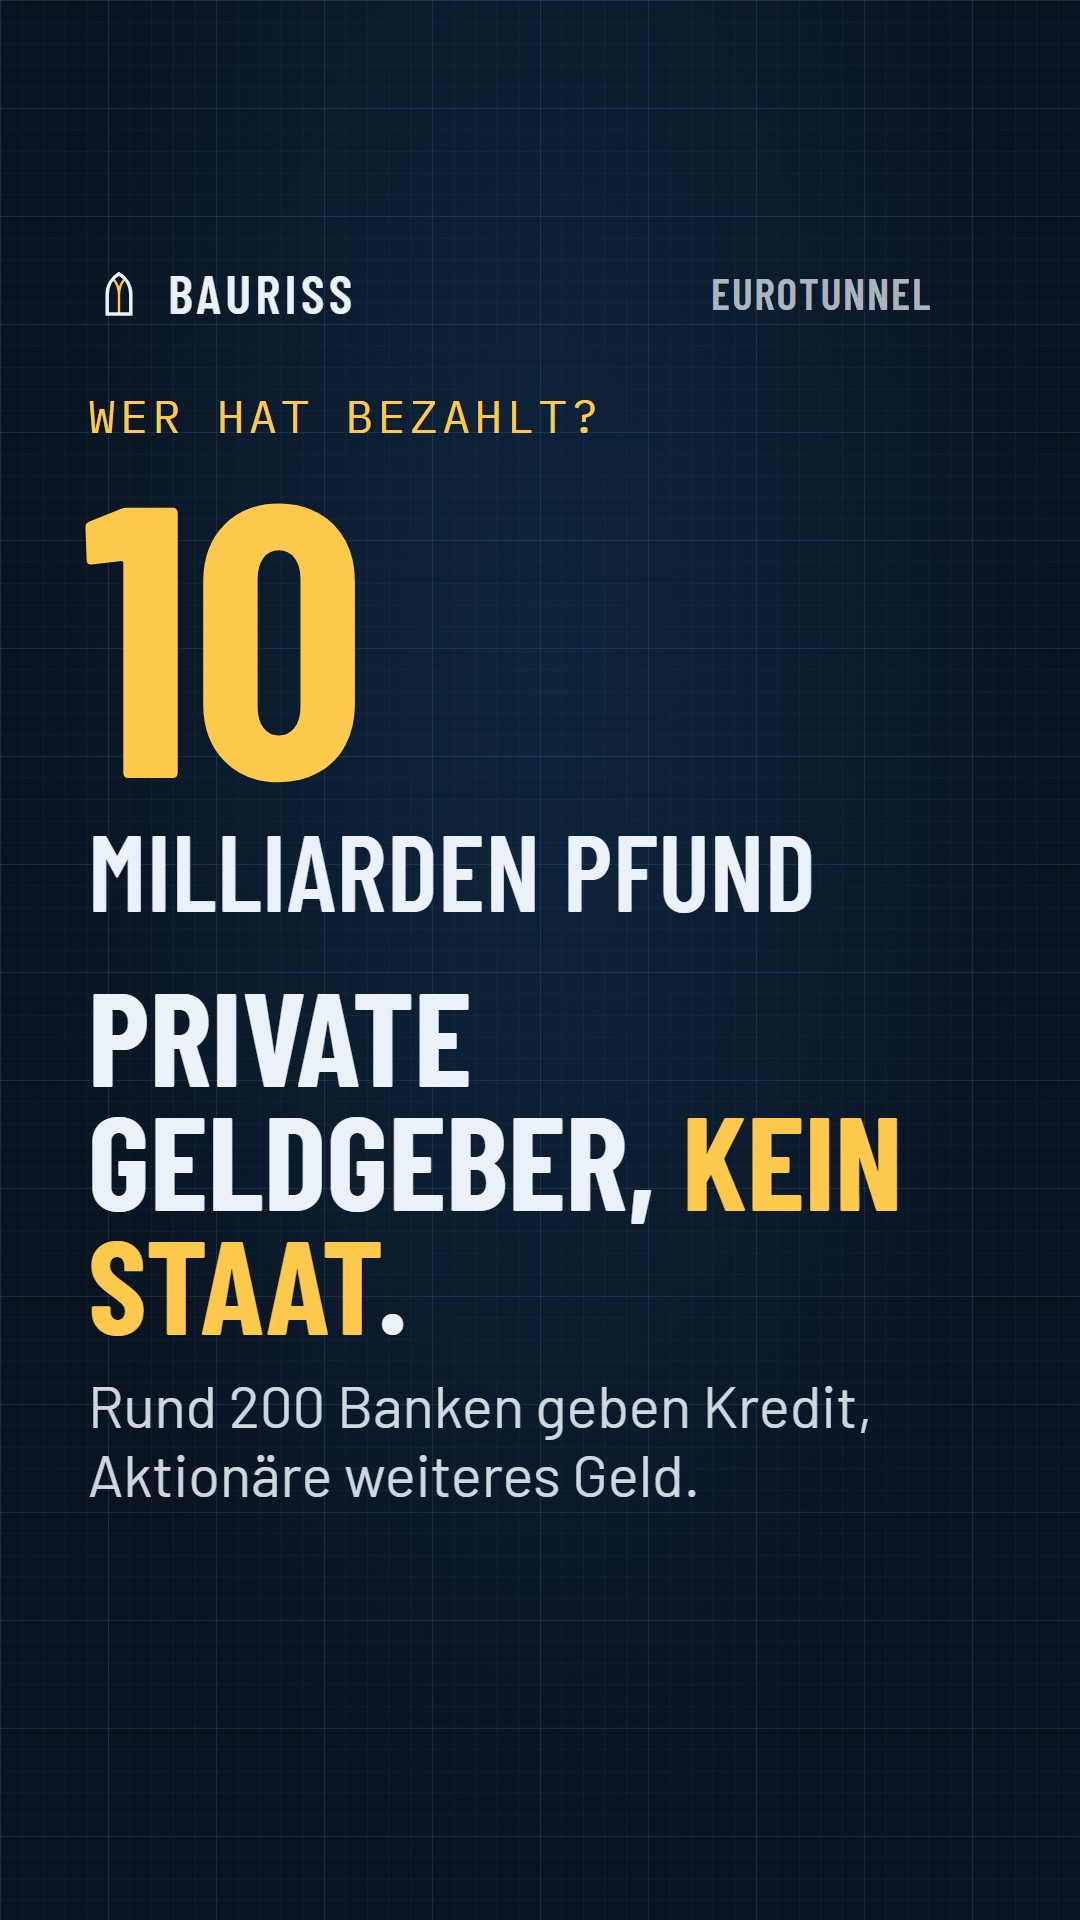
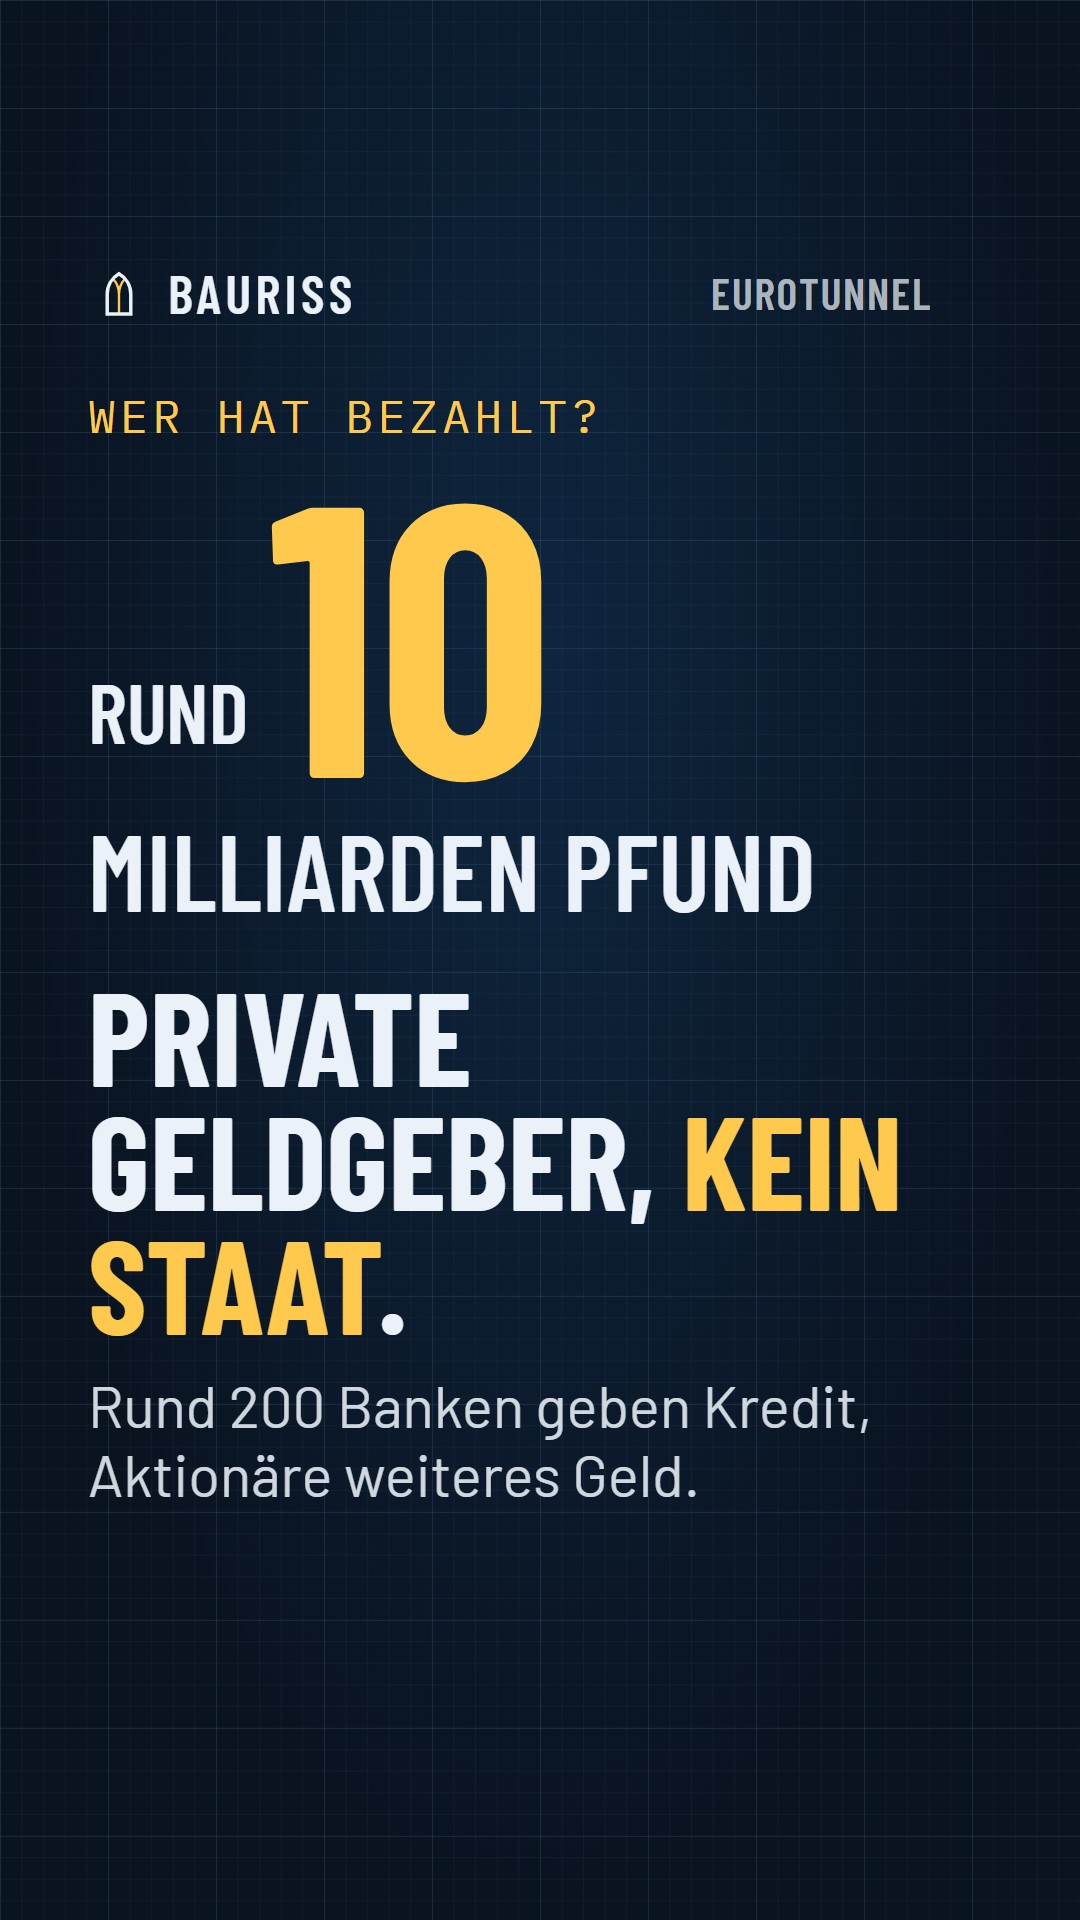
015 Eurotunnel: „rund“ klein vor der Titelzahl
Optionales Feld "vorsatz" auf dem Titelblatt und in reel.antwort; ohne das
Feld bleibt alles, wie es war (004, 005, 009, 010 bytegleich, 011 unverändert).

Changed region(s): [[0.0611, 0.25, 0.5194, 0.4062]]

diff --git a/render/reel.html b/render/reel.html
@@ -64,6 +64,9 @@
   /* Bild 3: die Antwort mit der großen Zahl */
   .b-antwort .kicker { font-family: var(--f-mono); font-size: 46px; letter-spacing: 0.1em; text-transform: uppercase; color: var(--acc); margin: 62px 0 0; }
   .b-antwort .zahl { font-family: var(--f-kopf); font-weight: 700; font-size: 420px; line-height: 0.8; margin: 24px 0 0 -6px; color: var(--acc); white-space: nowrap; }
+  .b-antwort .zahlzeile { display: flex; align-items: flex-end; gap: 26px; margin-top: 24px; }
+  .b-antwort .zahlzeile .zahl { margin-top: 0; }
+  .b-antwort .vorsatz { font-family: var(--f-kopf); font-weight: 600; font-size: 84px; line-height: 1; text-transform: uppercase; padding-bottom: 26px; flex: none; }
   .b-antwort h1 { font-family: var(--f-kopf); font-weight: 600; font-size: 108px; line-height: 0.94; text-transform: uppercase; margin-top: 40px; }
   .b-antwort .antwort { font-family: var(--f-kopf); font-weight: 700; font-size: 132px; line-height: 0.94; text-transform: uppercase; margin-top: 52px; }
   .b-antwort .zusatz { font-size: 58px; line-height: 1.2; color: rgba(234, 241, 248, 0.88); margin-top: 26px; }
@@ -134,7 +137,8 @@
       art = 'antwort';
       const a = r.antwort;
       innen = `<div class="sicher">${kopf(post, true)}<div class="kicker">${a.kicker || 'Wer hat bezahlt?'}</div>` +
-        `<div class="zahl">${a.zahl}</div><h1>${a.einheit}</h1><div class="antwort">${a.antwort}</div>` +
+        (a.vorsatz ? `<div class="zahlzeile"><div class="vorsatz">${a.vorsatz}</div><div class="zahl">${a.zahl}</div></div>` : `<div class="zahl">${a.zahl}</div>`) +
+        `<h1>${a.einheit}</h1><div class="antwort">${a.antwort}</div>` +
         `<div class="zusatz">${a.zusatz || ''}</div></div>`;
     } else if (nr === '4') {
       art = 'schluss';

diff --git a/render/style.css b/render/style.css
@@ -271,6 +271,8 @@ p em { font-style: normal; color: var(--acc); }
 .inhalt.titel .unterzeile { font-family: var(--f-mono); font-size: 32px; letter-spacing: 0.08em; text-transform: uppercase; color: var(--acc); margin-top: 14px; white-space: nowrap; }
 .inhalt.titel .titel { display: flex; align-items: flex-end; gap: 30px; margin-top: 40px; }
 .inhalt.titel .zahl { font-family: var(--f-kopf); font-weight: 700; font-size: 280px; line-height: 0.78; margin-left: -6px; color: var(--acc); white-space: nowrap; flex: none; }
+/* optional "vorsatz" (z. B. „rund“) klein vor der Zahl */
+.inhalt.titel .vorsatz { font-family: var(--f-kopf); font-weight: 600; font-size: 64px; line-height: 1; text-transform: uppercase; padding-bottom: 8px; margin-right: -14px; flex: none; }
 .inhalt.titel h1 { font-size: 92px; line-height: 0.94; padding-bottom: 4px; }
 .inhalt.titel .aufhaenger { font-family: var(--f-kopf); font-weight: 600; font-size: 72px; line-height: 1; text-transform: uppercase; margin-top: 38px; }
 .inhalt.titel .aufhaenger em { font-style: normal; color: var(--acc); }

diff --git a/render/render.js b/render/render.js
@@ -97,7 +97,7 @@ function render(post, nr) {
     // Die Schriftgrößen von Name, Einheit und Zahl passt einpassen() unten an die Breite an.
     const unter = sl.unterzeile ? `<div class="unterzeile">${sl.unterzeile}</div>` : '';
     inhalt = `<div class="bauwerk">${sl.name || post.titel}</div>${unter}` +
-      `<div class="titel"><div class="zahl">${sl.zahl}</div><h1>${sl.headline}</h1></div>` +
+      `<div class="titel">${sl.vorsatz ? `<div class="vorsatz">${sl.vorsatz}</div>` : ''}<div class="zahl">${sl.zahl}</div><h1>${sl.headline}</h1></div>` +
       `<div class="aufhaenger">${sl.aufhaenger || ''}</div>${figur}`;
   } else if (sl.typ === 'cover') {
     // hohe Zeichnung rechts

diff --git a/tools/automatik.py b/tools/automatik.py
@@ -98,6 +98,8 @@ def pruefe_blatt_lesbar(wo, sl):
                 fehler.append(f'{wo}: das Titelblatt braucht "{feld}".')
             elif sichtbar(wert) > grenze:
                 fehler.append(f'{wo}: "{feld}" hat {sichtbar(wert)} Zeichen, erlaubt sind {grenze}.')
+        if len(str(sl.get('vorsatz', ''))) > 6:
+            fehler.append(f'{wo}: "vorsatz" höchstens 6 Zeichen (etwa "rund", "fast", "über").')
         if str(sl.get('aufhaenger', '')).count('<em>') != 1:
             fehler.append(f'{wo}: der Aufhänger hat genau eine Hervorhebung mit <em>.')
         if sl.get('kicker') or absaetze:
@@ -153,6 +155,8 @@ def pruefe_reel_feld(post, skripte):
             fn = (teil.get('figur') or {}).get('fn', '')
             if not fn or not re.search(rf'\b{re.escape(fn)}\b', skripte):
                 fehler.append(f'"reel.{bild}.figur": Zeichnung "{fn}" gibt es weder in drawings.js noch in der Themen-Datei.')
+    if isinstance(reel.get('antwort'), dict) and len(str(reel['antwort'].get('vorsatz', ''))) > 6:
+        fehler.append('"reel.antwort.vorsatz" höchstens 6 Zeichen.')
     if isinstance(reel.get('antwort'), dict) and str(reel['antwort'].get('antwort', '')).count('<em>') != 1:
         fehler.append('"reel.antwort.antwort" hat genau eine Hervorhebung mit <em>.')
     return fehler

diff --git a/AUTOMATIK.md b/AUTOMATIK.md
@@ -160,7 +160,7 @@ Vorlagen zum Nachlesen, bevor du schreibst: `posts/011-nord-ostsee-kanal.json` (
 
 - Oben steht groß der Name des Bauwerks (`titel` des Posts). Kein `kicker`, kein `text`.
 - `unterzeile`: was das Bauwerk ist oder wo es steht, höchstens 38 Zeichen.
-- `zahl`: höchstens 4 Zeichen (`156`, `12,2`), sie erscheint groß und gelb. `headline`: die Einheit dazu, ein bis zwei Wörter, höchstens 20 Zeichen.
+- `zahl`: höchstens 4 Zeichen (`156`, `12,2`), sie erscheint groß und gelb. Ist die Zahl gerundet oder eine Spanne, steht `"vorsatz": "rund"` (oder „fast“, „über“, höchstens 6 Zeichen) klein davor; ebenso in `reel.antwort`. `headline`: die Einheit dazu, ein bis zwei Wörter, höchstens 20 Zeichen.
 - `aufhaenger`: ein kurzer Satz mit Spannung, höchstens 50 Zeichen, genau eine Hervorhebung mit `<em>`. Am liebsten die Antwort auf „Wer hat bezahlt?" („Die Maut zahlt die Schulden.", „Bezahlt hat ihn kein Staat."). Lässt sich das nicht belegen, der Kniff oder die Pointe des Baus. Nie mehr behaupten als die Belege.
 - Die Zahl ist tragend: zwei unabhängige Quellen in `belege`. Am besten die Baukosten oder der Betrag zur Frage, wer bezahlt hat. Ein reines Maß (Länge, Höhe, Dauer) kommt nur aufs Titelblatt, wenn kein Geldbetrag doppelt belegt ist; sein Platz ist `reel.zeichnung`.
 - Zeichnung: ruhig und breit, Zeichenfläche 900 × höchstens 450 (bei einzeiligem Aufhänger bis 520), höchstens 4 Beschriftungen, besser eine bis drei.
